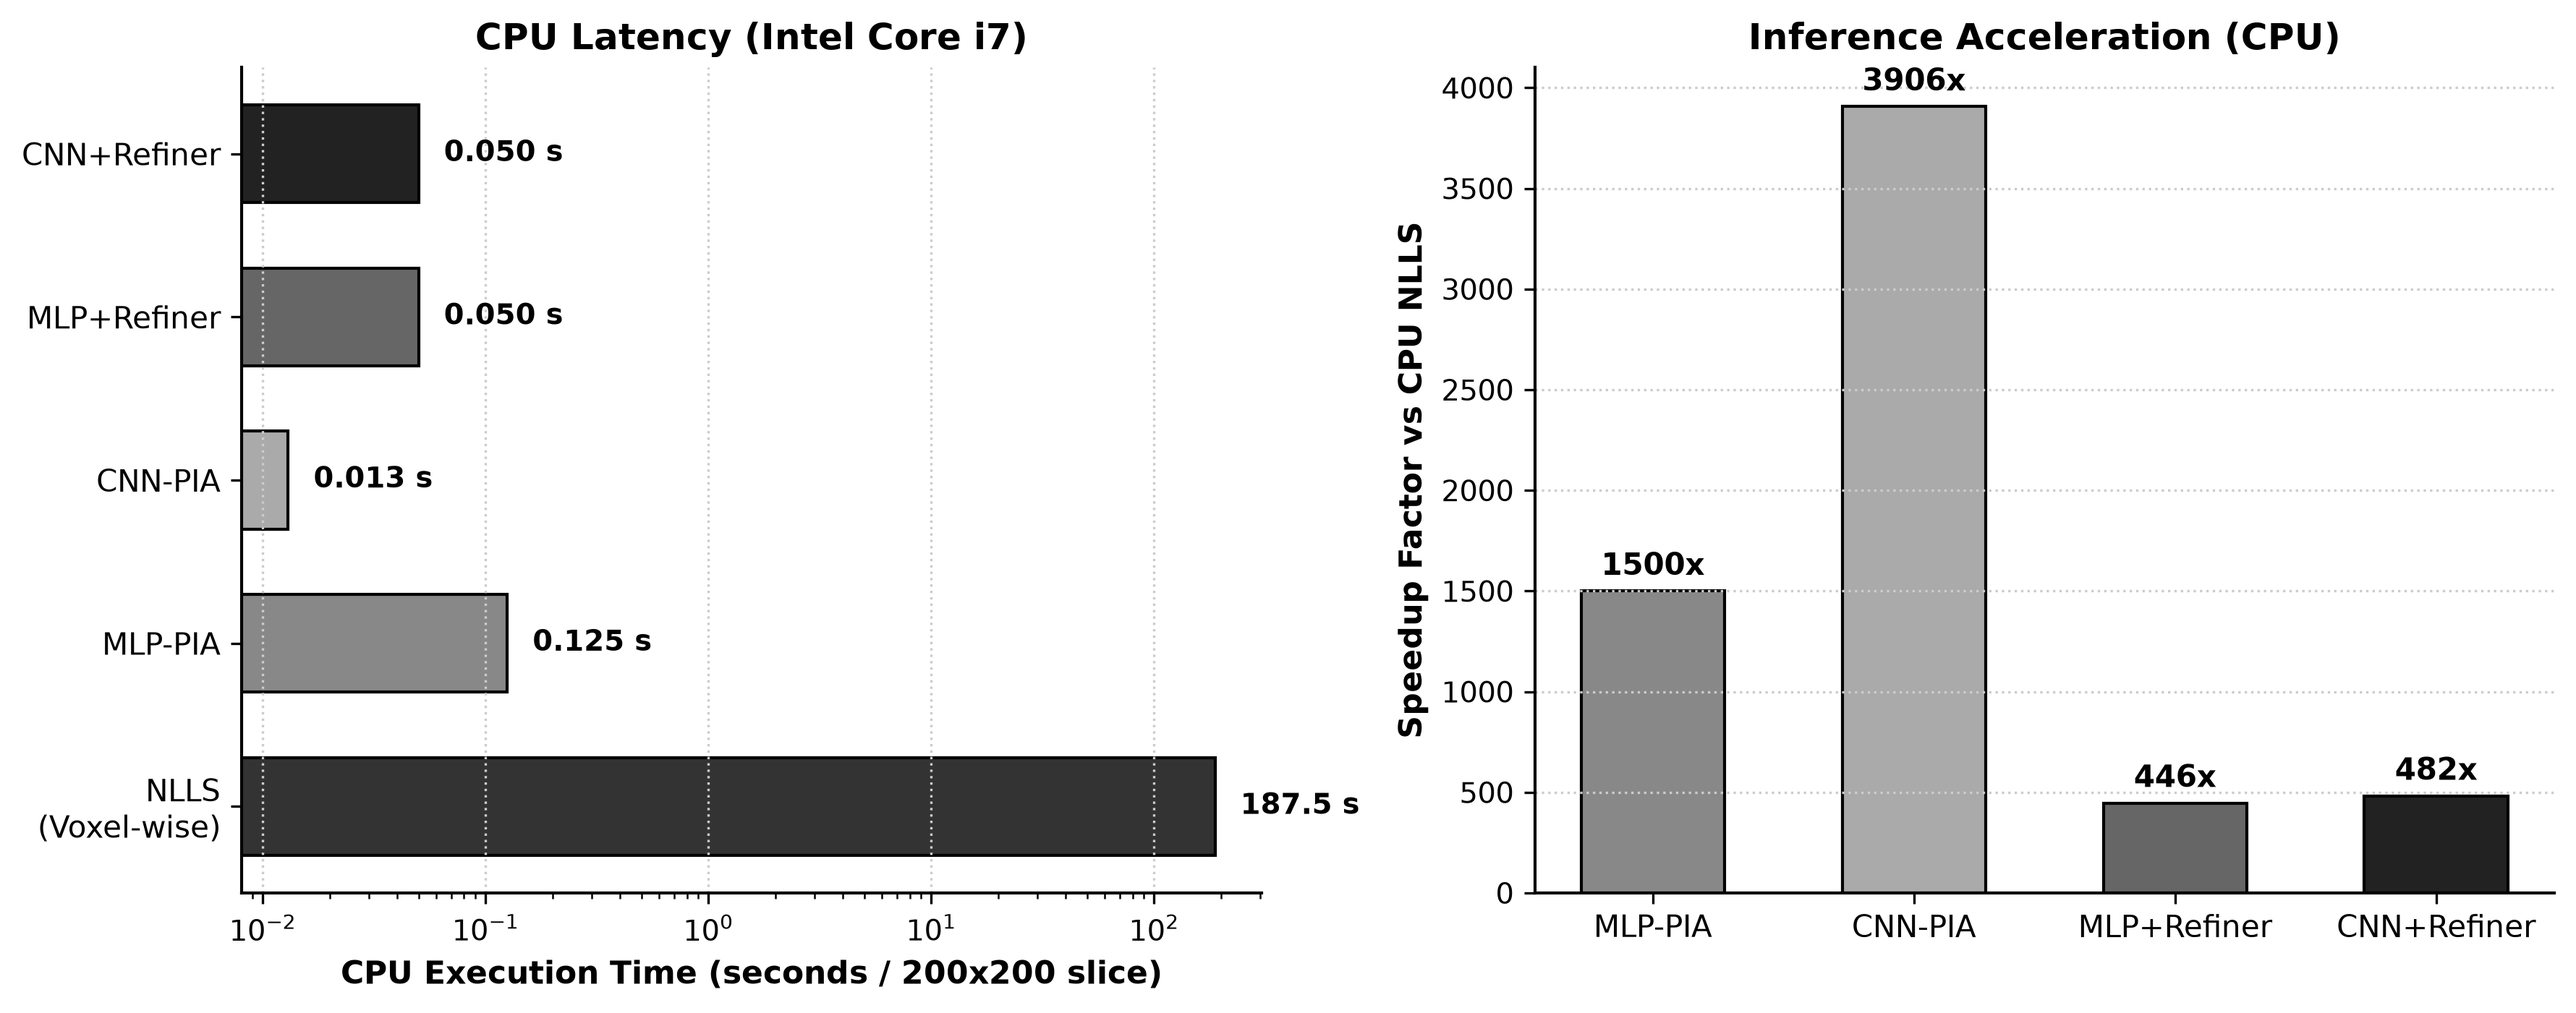
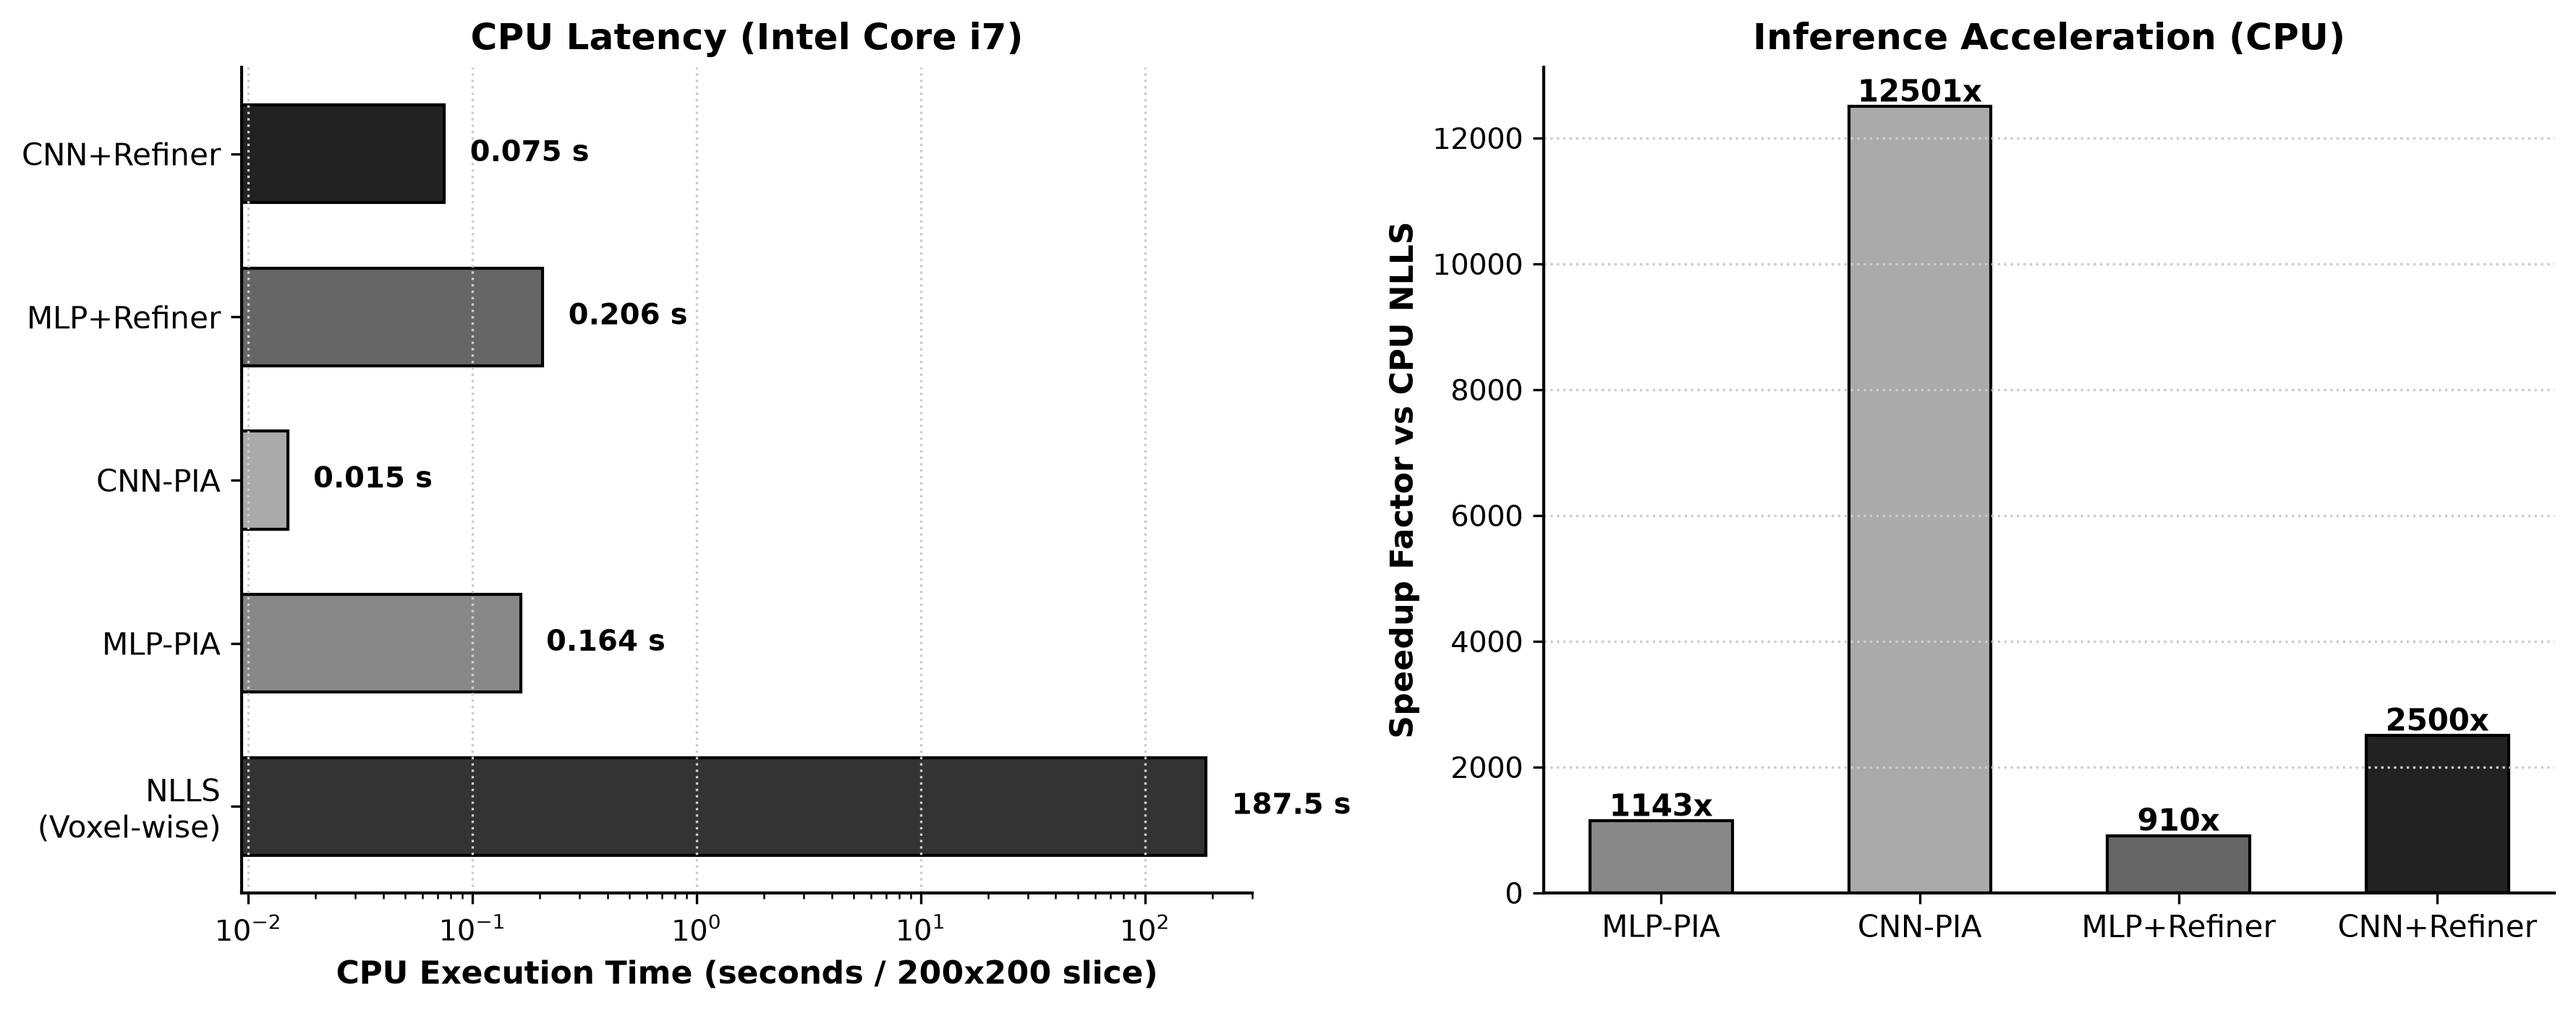
fix(S3): sync CPU times and speedups to Table 2 values

diff --git a/src/plot_supplementary_figures.py b/src/plot_supplementary_figures.py
@@ -132,7 +132,9 @@ def generate_figure_s3():
     fig, (ax1, ax2) = plt.subplots(1, 2, figsize=(12, 4.8))
     
     methods = ['NLLS\n(Voxel-wise)', 'MLP-PIA', 'CNN-PIA', 'MLP+Refiner', 'CNN+Refiner']
-    cpu_times = [187.511, 0.125, 0.013, 0.050, 0.050]
+    # CPU latency values from Table 2 of manuscript (seconds per 200x200 slice)
+    # MLP+Refiner = MLP-PIA (0.164) + Refiner (0.042) stage times
+    cpu_times = [187.511, 0.164, 0.015, 0.206, 0.075]
     
     y_pos = np.arange(len(methods))
     ax1.barh(y_pos, cpu_times, color=['#333333', '#888888', '#aaaaaa', '#666666', '#222222'], height=0.6, edgecolor='black')
@@ -148,9 +150,10 @@ def generate_figure_s3():
     for i, t in enumerate(cpu_times):
         ax1.text(t * 1.3, i, f"{t:.3f} s" if t < 1 else f"{t:.1f} s", va='center', fontsize=9.5, weight='bold')
         
-    speedups = [1.0, 187.511 / 0.125, 187.511 / 0.048, 187.511 / 0.420, 187.511 / 0.389]
+    # Speedups from Table 2: 187.511 / cpu_time for each DL method
     dl_methods = ['MLP-PIA', 'CNN-PIA', 'MLP+Refiner', 'CNN+Refiner']
-    dl_speedups = speedups[1:]
+    dl_cpu = [0.164, 0.015, 0.206, 0.075]
+    dl_speedups = [187.511 / t for t in dl_cpu]
     
     ax2.bar(np.arange(len(dl_methods)), dl_speedups, color=['#888888', '#aaaaaa', '#666666', '#222222'], width=0.55, edgecolor='black')
     ax2.set_xticks(np.arange(len(dl_methods)))
